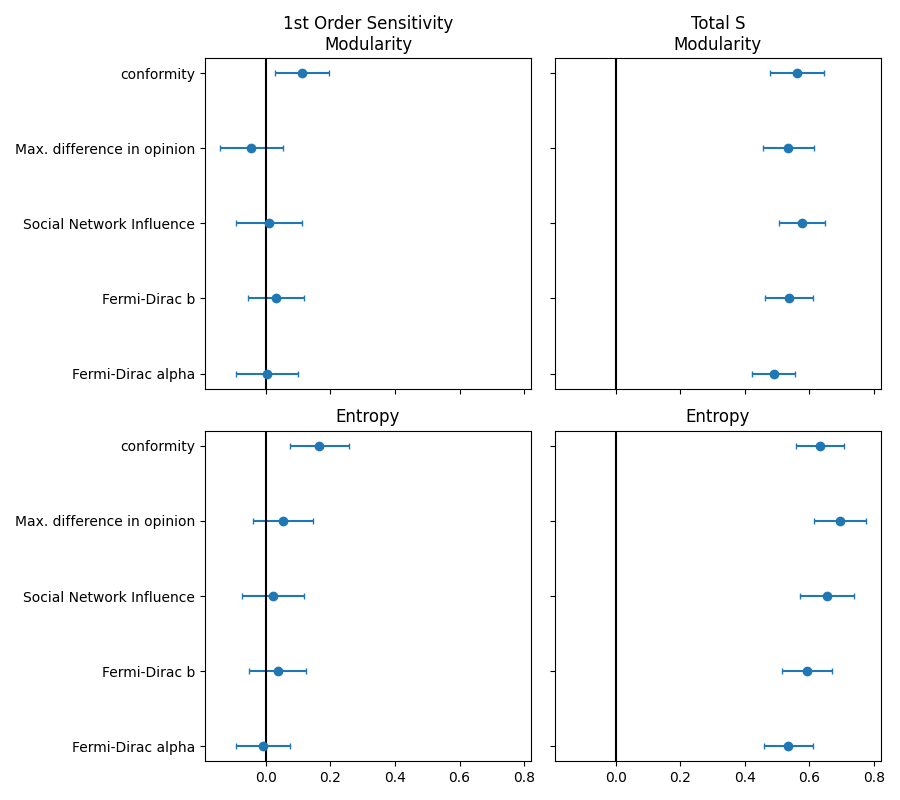
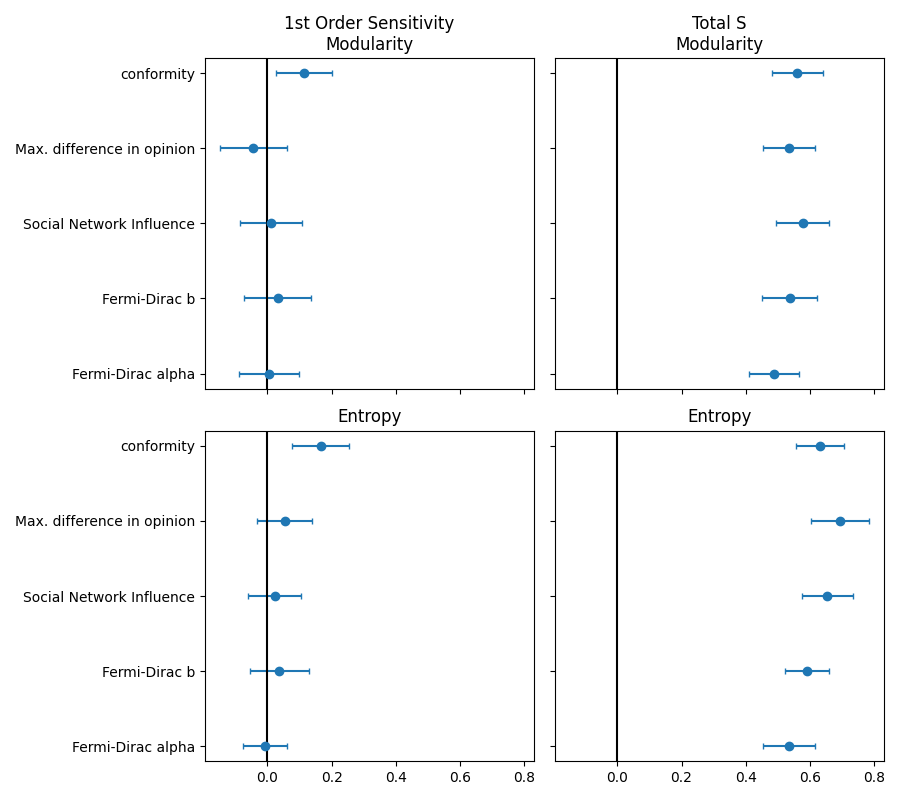
final!

diff --git a/polarization/experiments/experiments.py b/polarization/experiments/experiments.py
@@ -5,7 +5,7 @@
 
 
 experiments = [
-    # default                                       sl  rho  m  a  b   sf  c  ox  ht
+    # default                                       sl  rho  m  a  b   sf  c  ox  cf
     # {"name":"default_small",            "values":[10, 0.8, 2, 4, 1, 0.8, 5, 2, 0.8]},
     # {"name":"default_small_dens",       "values":[10, 0.9, 2, 4, 1, 0.8, 5, 2, 0.8]},
     # {"name":"default_average",          "values":[20, 0.8, 2, 4, 1, 0.8, 5, 2, 0.8]},
@@ -15,14 +15,14 @@ experiments = [
     # {"name":"default_extra_large_dens", "values":[40, 0.95,2, 4, 1, 0.8, 5, 2, 0.8]},
     # {"name":"tolerance_high",           "values":[20, 0.9, 2, 4, 1, 0.8, 5, 4, 0.8]},
     # {"name":"tolerance_low",            "values":[20, 0.9, 2, 4, 1, 0.8, 5, 1, 0.8]},
-    {"name":"alpha_low",                "values":[20, 0.8, 2, 1, 1, 0.3, 5, 1, 0.8]},
+    {"name":"alpha_low",                "values":[20, 0.8, 2, 1, 1, 0.3, 5, 1, 0.5]},
     # {"name":"alpha_high",               "values":[20, 0.9, 2, 6, 1, 0.8, 5, 2, 0.8]},
     # {"name":"beta_high",                "values":[20, 0.9, 2, 4, 3, 0.8, 5, 2, 0.8]},
 ]
 
 from polarization.experiments.experiment_run import run_experiment, plot_experiment
-stepcount = 20
-iterations = 30
+stepcount = 50
+iterations = 20
 for experiment in experiments:
     agent_dfs, model_dfs = run_experiment(iterations, stepcount, experiment)
     _ = plot_experiment(agent_dfs, model_dfs, stepcount, experiment)

diff --git a/polarization/core/model.py b/polarization/core/model.py
@@ -132,14 +132,16 @@ class PolarizationAgent(Agent):
         unconnected_agents = [agent for agent in self.model.schedule.agents if agent.unique_id != self.unique_id and
                               agent.unique_id not in self.connections_ids]
         potential_connections = [agent for agent in unconnected_agents if abs(agent.opinion - self.opinion) >=
-                                 self.model.opinion_max_diff*0.5]
+                                 self.model.opinion_max_diff*0.7]
 
         if potential_connections:
             potential = random.choice(potential_connections)
             self.evaluate_connection(potential_agent=potential, action="ADD")
 
+
     def step(self):
         self.form_connection()
+        # self.connect_different_opinions()
         self.break_connection()
         self.relocate()
         self.adapt_opinion()

diff --git a/polarization/sensitivityanalysis/sobol_plot.py b/polarization/sensitivityanalysis/sobol_plot.py
@@ -191,3 +191,5 @@ plot_index(si_resident_entropy , problem["names"],      i="1",ax=ax[1][0],title=
 plot_index(si_resident_modularity , problem["names"],   i="T",ax=ax[0][1],title= "Total S\nModularity")
 plot_index(si_resident_entropy , problem["names"],      i="T",ax=ax[1][1],title= "Entropy")
 plt.savefig("figures/GSA5.png")
+# plot_index(si_resident_modularity , problem["names"],   i="2",ax=ax[0][1],title= "2nd Order Sensitivity\nnModularity")
+# plot_index(si_resident_entropy , problem["names"],      i="2",ax=ax[1][1],title= "Entropy")

diff --git a/polarization/experiments/experiment_run.py b/polarization/experiments/experiment_run.py
@@ -130,6 +130,6 @@ def plot_experiment(agent_dfs, model_dfs, stepcount, experiment):
 
     plt.tight_layout()
     
-    filename = 'without0.8'
+    filename = 'without0.5_50'
     plt.savefig(f"figures/{filename}.png")
 
